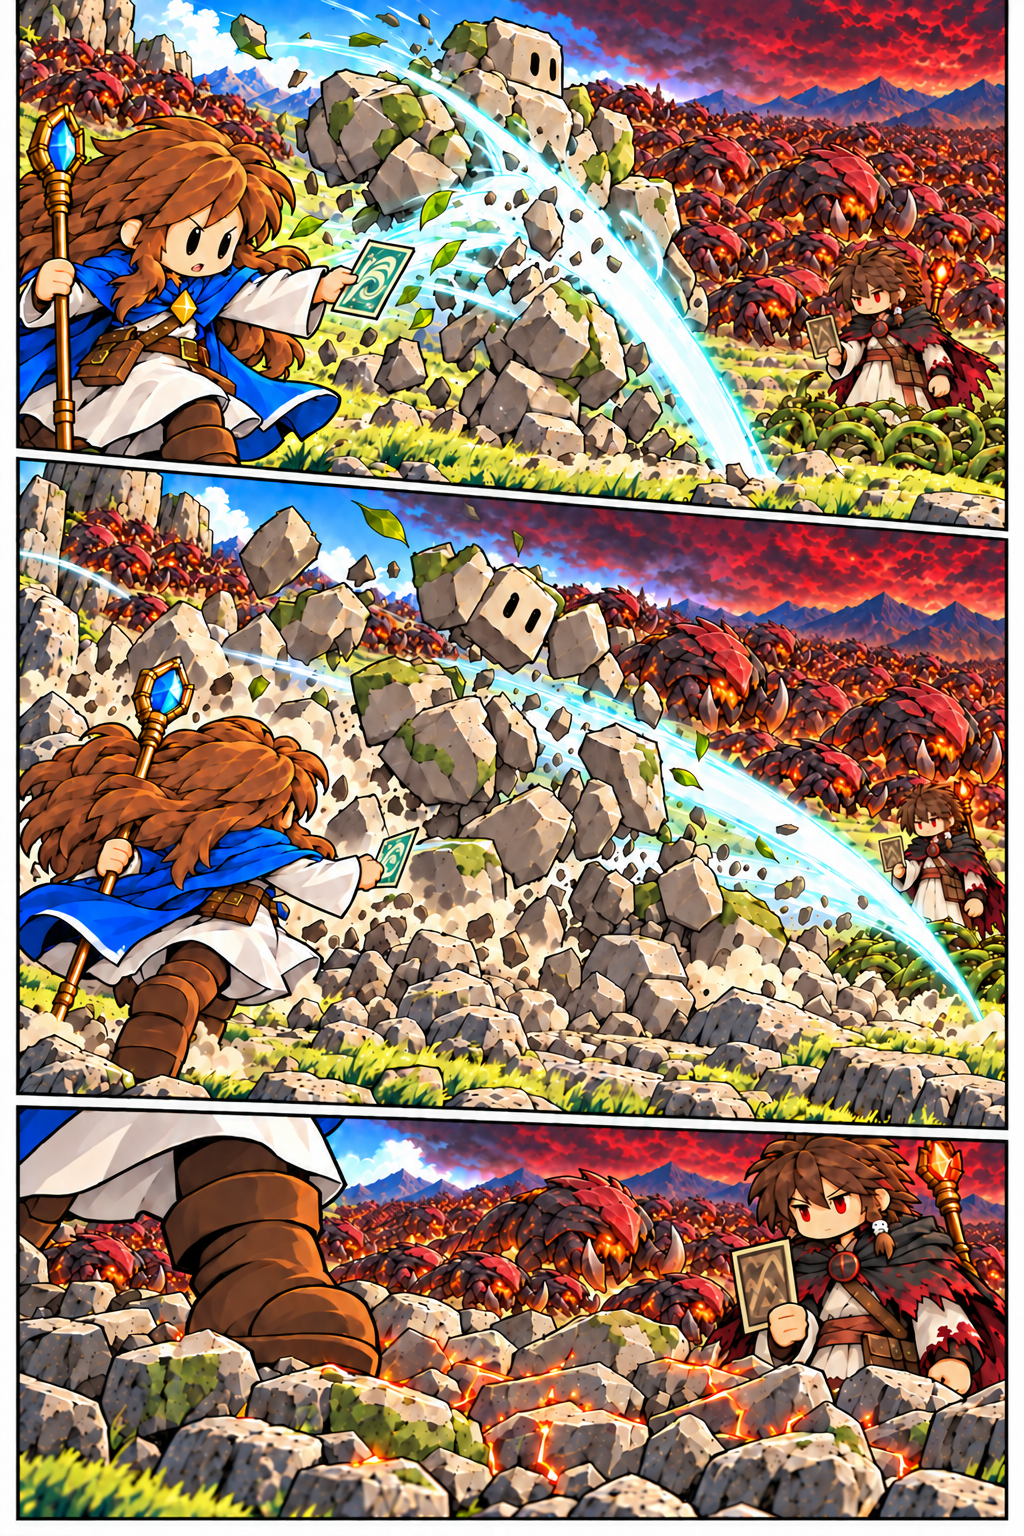
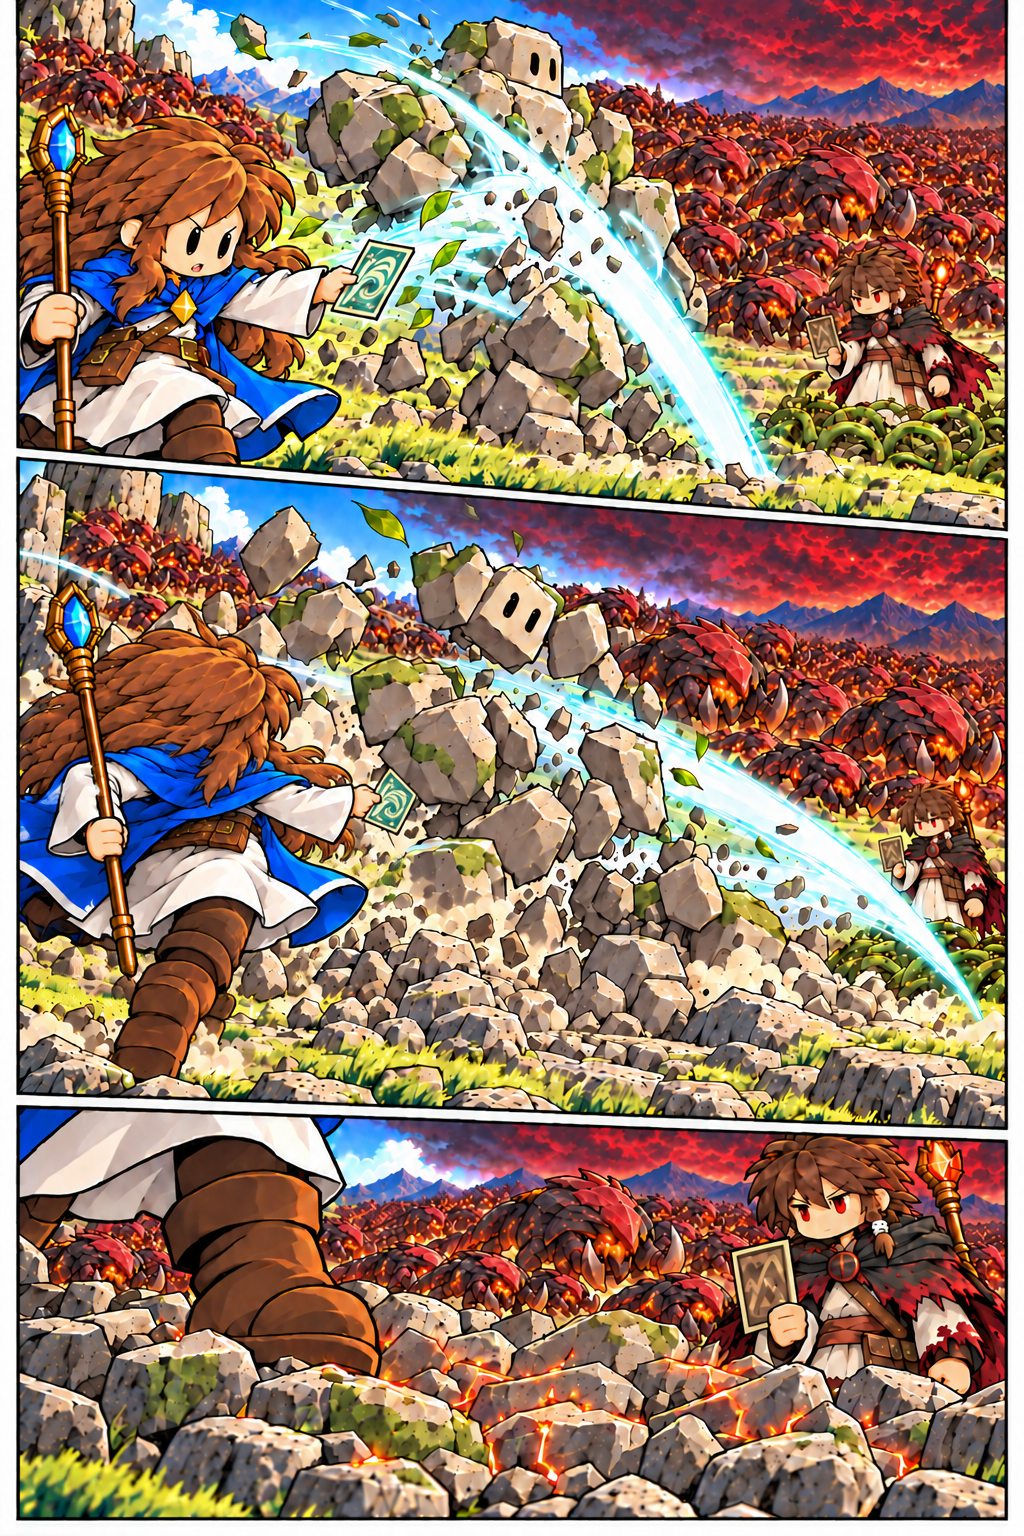
fix: 만화 3화 지팡이 팔 자세 수정

diff --git a/content/arcane-casters/story/episodes/003/index.html b/content/arcane-casters/story/episodes/003/index.html
@@ -6,4 +6,4 @@
 body{margin:0}header{max-width:900px;margin:auto;padding:24px 16px}
 h1{font-size:20px;margin:0}main{max-width:900px;margin:auto}
 figure{margin:0 0 12px}img{display:block;width:100%;height:auto}
-</style></head><body><header><h1>3화 · 검토용</h1></header><main><figure><img src="art-v1/page-01.png" alt="운룡 소환" width="1024" height="1536" loading="eager"></figure><figure><img src="art-v1/page-02.png" alt="구름 속의 습격" width="1024" height="1536" loading="lazy"></figure><figure><img src="art-v1/page-03-ground-legion.png" alt="핀을 발견하다" width="1024" height="1536" loading="lazy"></figure><figure><img src="art-v2/page-04-psychic-static.png" alt="덩굴과 방벽" width="1024" height="1536" loading="lazy"></figure><figure><img src="art-v2/page-05-mira-clasp.png" alt="칼날이 만든 잔해" width="1024" height="1536" loading="lazy"></figure><figure><img src="art-v2/page-06-continuity.png" alt="돌 폭발" width="1024" height="1536" loading="lazy"></figure><figure><img src="art-v1/page-07-ground-legion.png" alt="돌 굴리기" width="1024" height="1536" loading="lazy"></figure><figure><img src="art-v2/page-08-continuity.png" alt="물 폭발로 뛰어오르다" width="1024" height="1536" loading="lazy"></figure><figure><img src="art-v2/page-09-psychic-static.png" alt="위와 아래의 공격" width="1024" height="1536" loading="lazy"></figure><figure><img src="art-v1/page-10.png" alt="리콜" width="1024" height="1536" loading="lazy"></figure><figure><img src="art-v2/page-11-continuity.png" alt="탑으로 돌아오다" width="1024" height="1536" loading="lazy"></figure><figure><img src="art-v2/page-12-continuity.png" alt="익숙한 손이 떨린다" width="1024" height="1536" loading="lazy"></figure></main></body></html>
+</style></head><body><header><h1>3화 · 검토용</h1></header><main><figure><img src="art-v1/page-01.png" alt="운룡 소환" width="1024" height="1536" loading="eager"></figure><figure><img src="art-v1/page-02.png" alt="구름 속의 습격" width="1024" height="1536" loading="lazy"></figure><figure><img src="art-v1/page-03-ground-legion.png" alt="핀을 발견하다" width="1024" height="1536" loading="lazy"></figure><figure><img src="art-v2/page-04-psychic-static.png" alt="덩굴과 방벽" width="1024" height="1536" loading="lazy"></figure><figure><img src="art-v2/page-05-staff-arm.png" alt="칼날이 만든 잔해" width="1024" height="1536" loading="lazy"></figure><figure><img src="art-v2/page-06-continuity.png" alt="돌 폭발" width="1024" height="1536" loading="lazy"></figure><figure><img src="art-v1/page-07-ground-legion.png" alt="돌 굴리기" width="1024" height="1536" loading="lazy"></figure><figure><img src="art-v2/page-08-continuity.png" alt="물 폭발로 뛰어오르다" width="1024" height="1536" loading="lazy"></figure><figure><img src="art-v2/page-09-psychic-static.png" alt="위와 아래의 공격" width="1024" height="1536" loading="lazy"></figure><figure><img src="art-v1/page-10.png" alt="리콜" width="1024" height="1536" loading="lazy"></figure><figure><img src="art-v2/page-11-continuity.png" alt="탑으로 돌아오다" width="1024" height="1536" loading="lazy"></figure><figure><img src="art-v2/page-12-continuity.png" alt="익숙한 손이 떨린다" width="1024" height="1536" loading="lazy"></figure></main></body></html>

diff --git a/content/arcane-casters/story/episodes/003/REVIEW.md b/content/arcane-casters/story/episodes/003/REVIEW.md
@@ -26,3 +26,6 @@
 
 
 2026-10-30 추가 수정: 머릿속 명령은 매끈한 둥근 상자가 아니라 찌직거리는 불규칙한 검붉은 말풍선이다. 발화자 꼬리는 없다. 4·9장 psychic-static 수정본을 선택했다. 사용자 요청에 따라 이 PR에 한국어·영어 3화 읽기 화면과 회차 목록 연결도 포함하며 병합·운영 배포는 보류한다.
+
+
+5장 중간 컷 추가 수정: 지팡이를 쥔 손이 등에서 거꾸로 나온 것처럼 보이는 자세를 수정했다. 지팡이는 몸 옆에서 낮게 잡고 흰 소매부터 팔꿈치·손목까지 연결이 보이게 했다. 카드 든 팔과 두 팔·두 손을 유지했다. 선택 원고와 한영 웹페이지를 함께 갱신한다.
